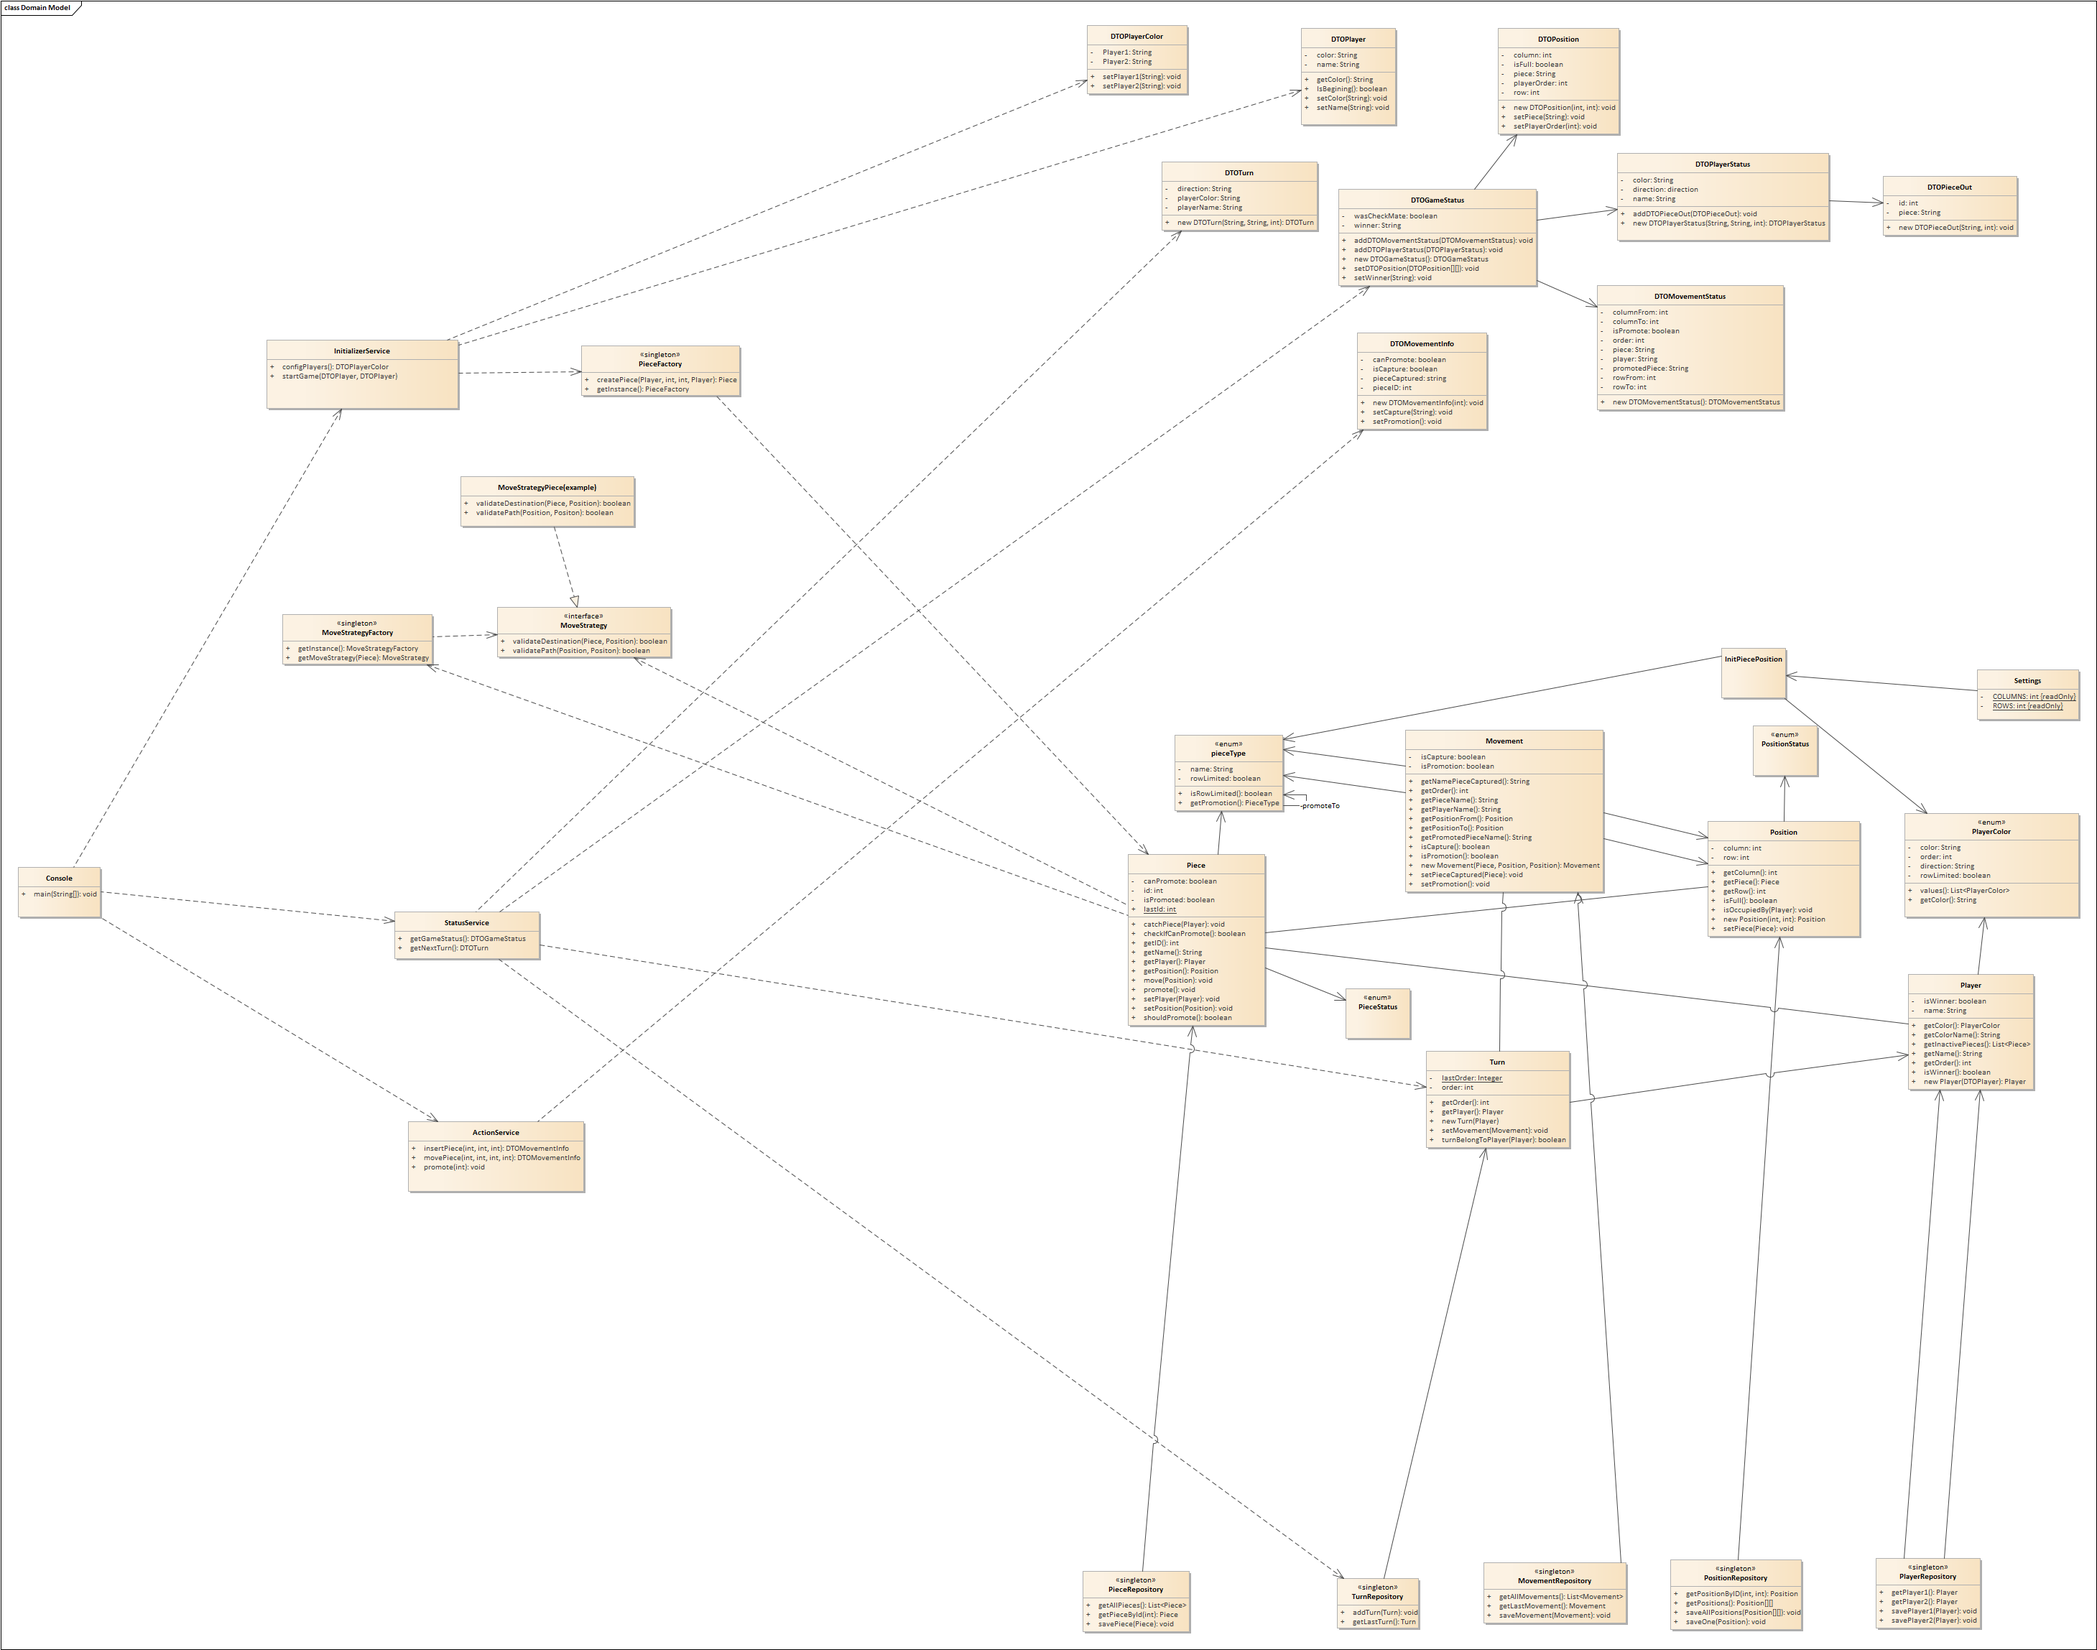
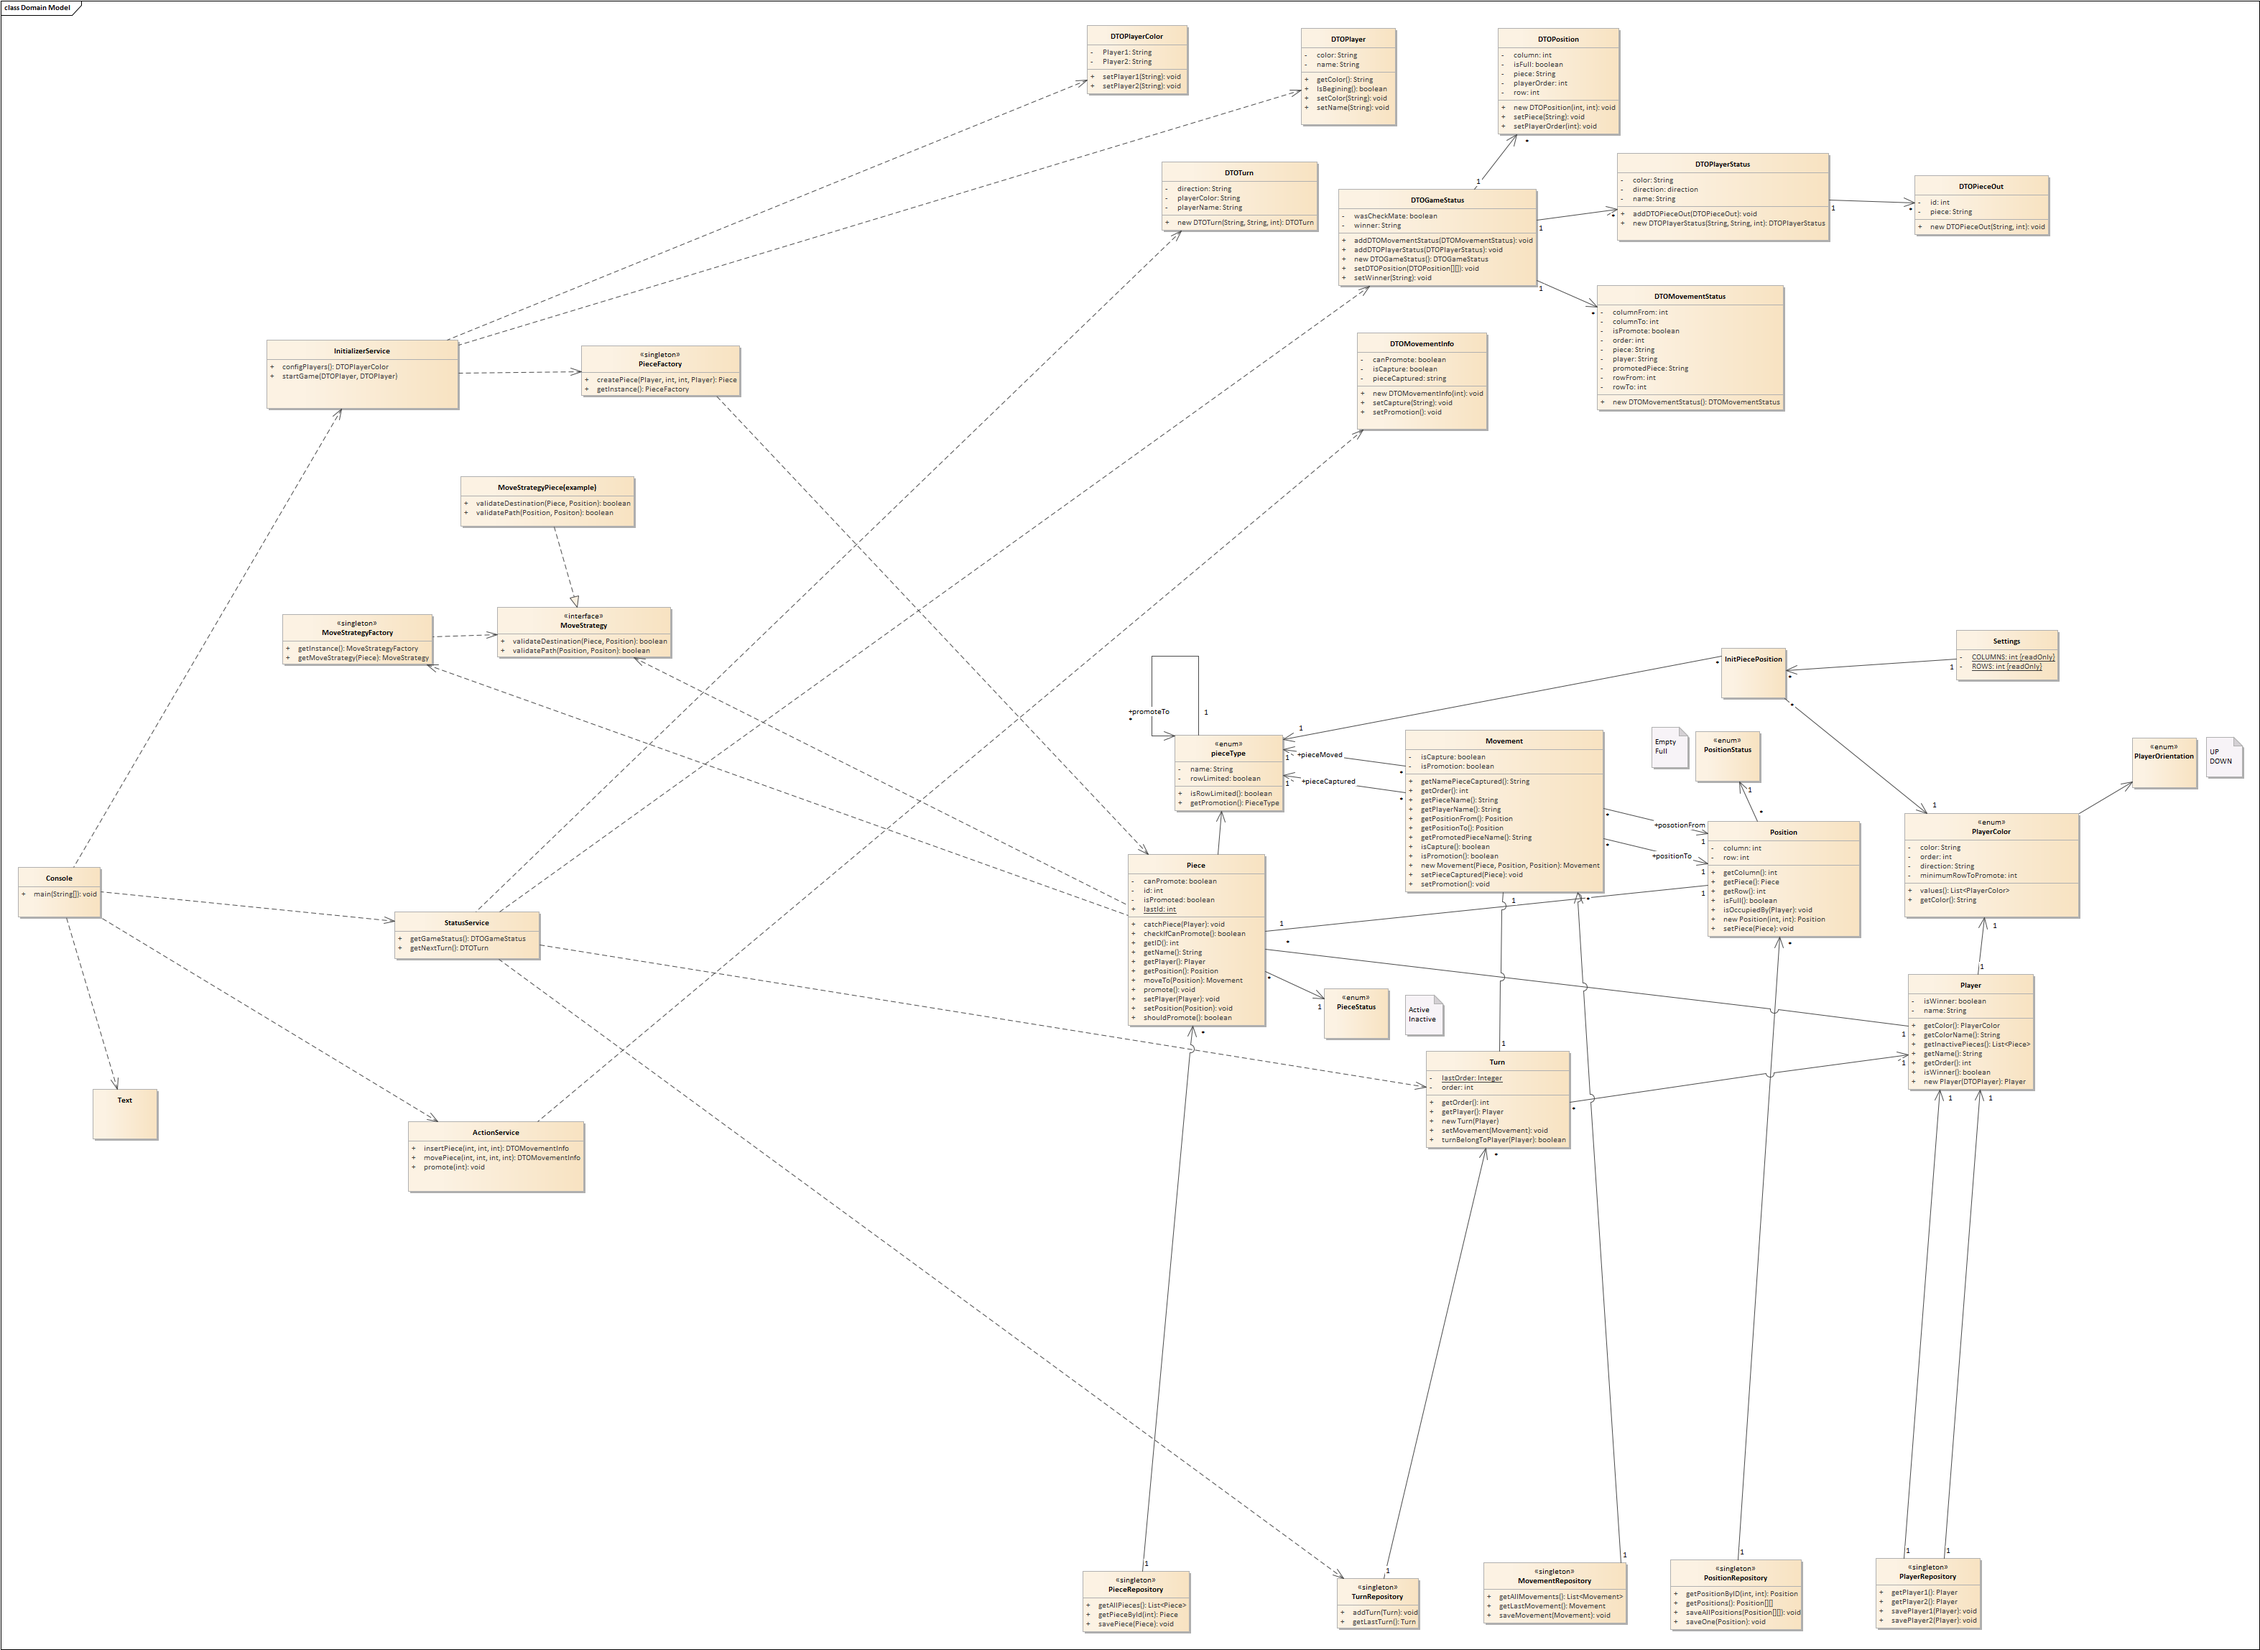
Class diagram final modifications
Multiplicity and missing classes added

diff --git a/src/test/java/PieceValidateMovementTest.java b/src/test/java/PieceValidateMovementTest.java
@@ -10,7 +10,7 @@ import org.junit.jupiter.params.provider.CsvSource;
 import services.factories.MoveStrategyFactory;
 import services.strategies.moveStrategy.MoveStrategy;
 
-public class PieceMovementTest {
+public class PieceValidateMovementTest {
 
     public static MoveStrategyFactory factory;
 
